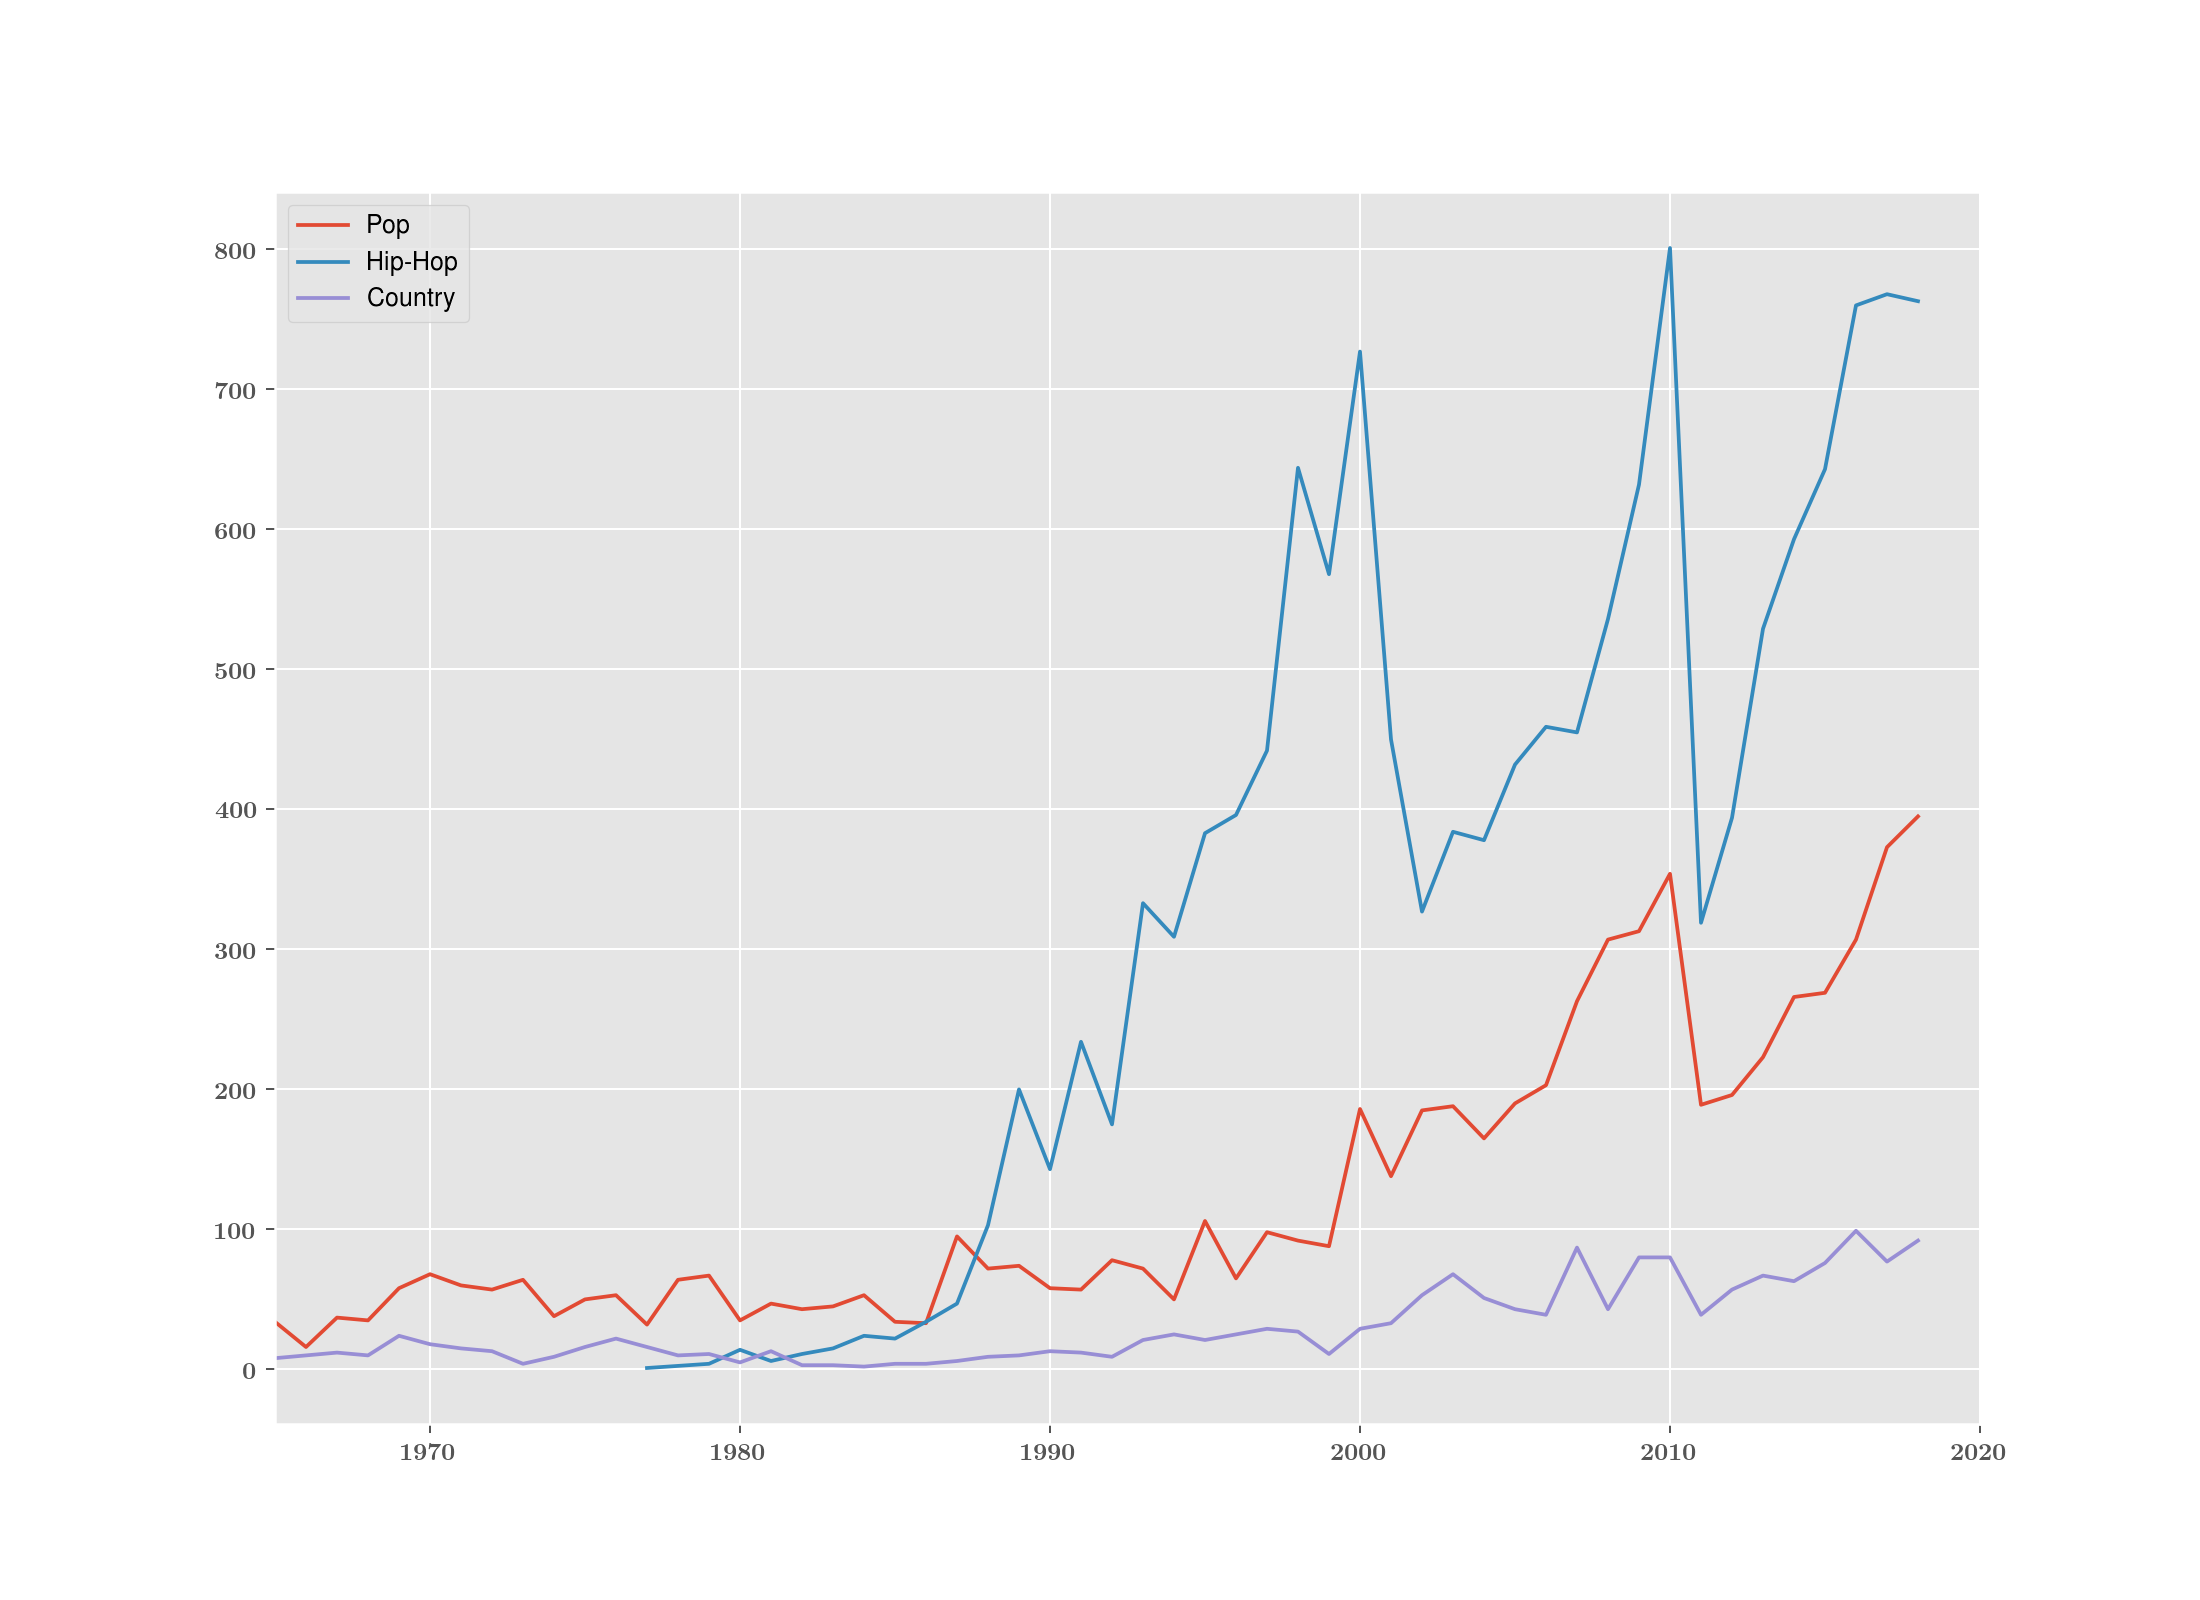
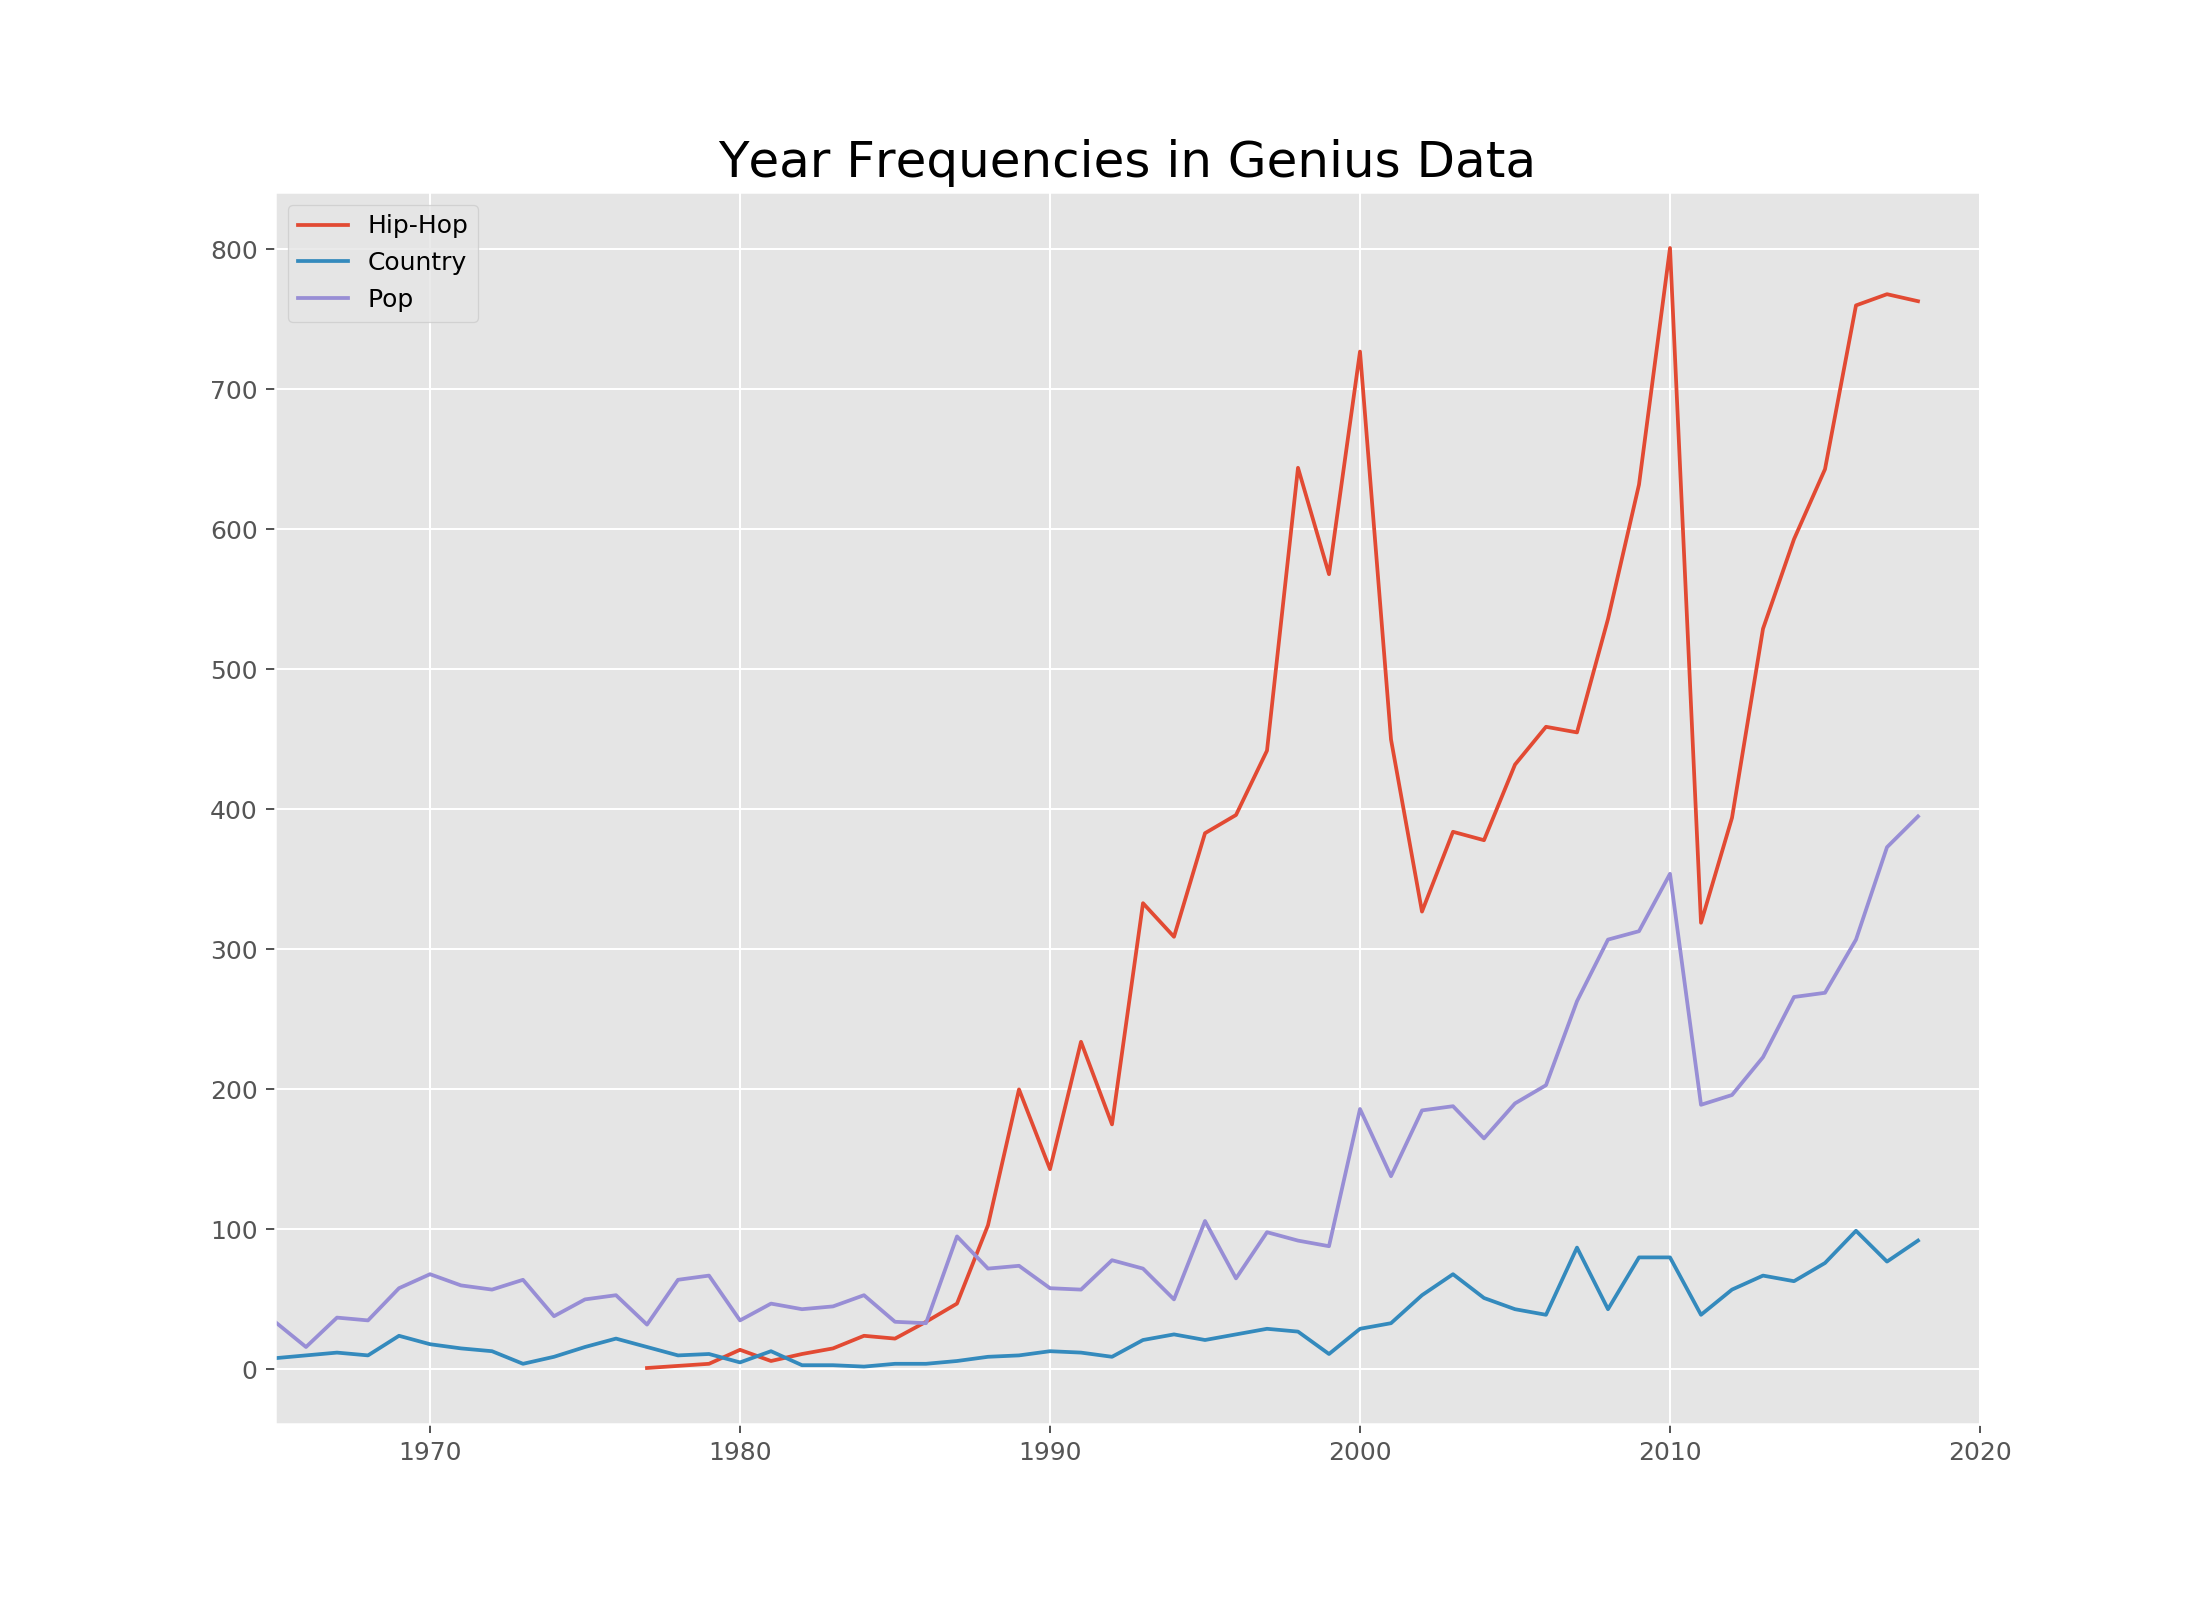
🐿 Added titles to histograms.

diff --git a/src/numerical_stats/visualize_distribution.py b/src/numerical_stats/visualize_distribution.py
@@ -41,6 +41,7 @@ def kaggle_histogram(vis_folder, kaggle_path):
             plt.legend(loc = 'upper left')
             ax = plt.gca()
             ax.set_xlim(1965, 2020)
+        plt.title("Year Frequencies in Kaggle Data", fontsize = 20)
         plt.savefig(vis_folder+"/kaggle_histogram_line.png")
     else:
         print("No kaggle data found.")
@@ -78,6 +79,7 @@ def genius_histogram(vis_folder):
         plt.legend(loc = 'upper left')
         ax = plt.gca()
         ax.set_xlim(1965, 2020)
+        plt.title("Year Frequencies in Genius Data", fontsize = 20)
 
     plt.savefig(vis_folder+"/genius_histogram_line.png")
 
@@ -106,6 +108,7 @@ def kaggle_histogram_binned(vis_folder, kaggle_path):
     data = data.groupby(by = ["year", "genre"]).size().reset_index().groupby(by = ['year', 'genre'])[0].aggregate('first').unstack().reset_index().set_index('year').reindex(["<2000", "2001-2010", "2011-2019"])
     data.plot(y = ['Country', 'Hip-Hop', 'Pop'], kind = 'bar', ax = plt.gca())
 
+    plt.title("Time Span Frequencies in Kaggle Data", fontsize = 20)
     plt.savefig(vis_folder+"/kaggle_histogram_binned.png")
 
 def decadify(x):
@@ -145,4 +148,5 @@ def genius_histogram_binned(vis_folder):
 
     new_counter.plot(y = ['Country', 'Hip-Hop', 'Pop'], kind = 'bar')
 
+    plt.title("Time Span Frequencies in Genius Data", fontsize = 20)
     plt.savefig(vis_folder+"/genius_histogram_binned.png")
